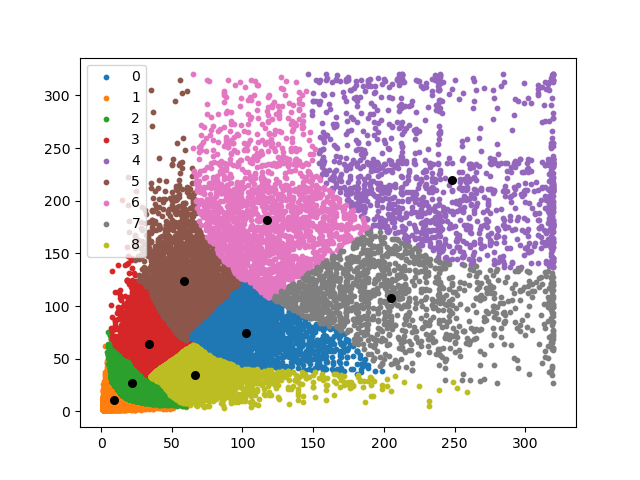
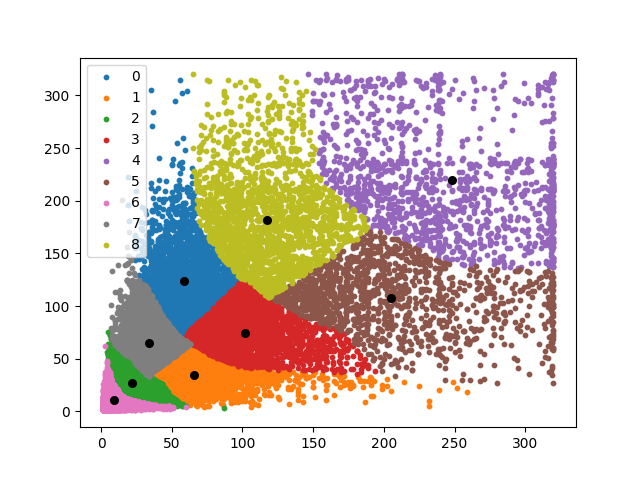
完成数据集加载以及anchors生成，具体的anchors已写入train.py

diff --git a/data/generate_anchors.py b/data/generate_anchors.py
@@ -1,17 +1,17 @@
 
 import numpy as np
 import matplotlib.pyplot as plt
-from data.generate_coco_data import CoCoDataGenrator
+from generate_coco_data import CoCoDataGenrator
 
 
-def save_coco_all_wh(anno_file, image_shape, output_anchor_file):
+def save_coco_all_wh(anno_file, coco_data_file, image_shape, output_anchor_file):
     """ 生成coco标注数据目标边框宽高
     :param anno_file:
     :param image_shape:
     :param output_anchor_file:
     :return:
     """
-    coco = CoCoDataGenrator(coco_annotation_file=anno_file, img_shape=image_shape, batch_size=1, train_img_nums=-1)
+    coco = CoCoDataGenrator(coco_annotation_file=anno_file, coco_data_file=coco_data_file ,img_shape=image_shape, batch_size=1, train_img_nums=-1, need_down_image=False)
     all_wh = []
     for batch in range(coco.total_batch_size):
         data = coco.next_batch()
@@ -105,10 +105,11 @@ def kmeans(x, K, save_cluster_fig=""):
 
 if __name__ == "__main__":
     # save_coco_all_wh(
-    #     anno_file="./data/instances_val2017.json",
+    #     anno_file="/content/coco2017/annotations/instances_val2017.json",
+    #     coco_data_file="/content/coco2017/val2017",
     #     image_shape=[320,320,3],
-    #     output_anchor_file='./data/coco2017_320x320_val_all_wh.txt'
+    #     output_anchor_file='coco2017_320x320_val_all_wh.txt'
     # )
 
-    data = get_wh('./coco2017_320x320_val_all_wh.txt')
+    data = get_wh('coco2017_320x320_val_all_wh.txt')
     kmeans(data, 9, save_cluster_fig="./anchors_320x320_test.png")

diff --git a/data/generate_coco_data.py b/data/generate_coco_data.py
@@ -441,12 +441,14 @@ class CoCoDataGenrator:
 
 if __name__ == "__main__":
     from data.visual_ops import draw_bounding_box, draw_instance
+    from PIL import Image
 
     # file = "./cat_dog_face_data/train_annotations.json"
     file = "/content/coco2017/annotations/instances_val2017.json"
     # file = "./yanhua/annotations.json"
     coco = CoCoDataGenrator(
         coco_annotation_file=file,
+        coco_data_file = '/content/coco2017/val2017',
         train_img_nums=30,
         include_mask=True,
         include_keypoint=False,
@@ -475,8 +477,8 @@ if __name__ == "__main__":
         mask = gt_masks[-1][:, :, i]
         # img = draw_instance(img, mask)
         img = draw_bounding_box(img, label_name, label, x1, y1, x2, y2)
-    cv2.imshow("", img)
-    cv2.waitKey(0)
+    #cv2.imshow("",img)
+    #cv2.waitKey(0)
 
     # data = coco.next_batch()
     # print(data)

diff --git a/train.py b/train.py
@@ -51,9 +51,9 @@ def main():
     # classes = ['cat', 'dog']
 
     # 这里anchor归一化到[0,1]区间
-    anchors = np.array([[10, 13], [16, 30], [33, 23],
-                        [30, 61], [62, 45], [59, 119],
-                        [116, 90], [156, 198], [373, 326]]) / 640.
+    anchors = np.array([[8, 10], [21, 26], [33, 64],
+                        [65, 34], [58, 123], [102, 74],
+                        [117, 182], [204, 107], [248, 220]]) / 640.
     anchors = np.array(anchors, dtype=np.float32)
     # 分别对应1/8, 1/16, 1/32预测输出层
     anchor_masks = np.array([[0, 1, 2], [3, 4, 5], [6, 7, 8]], dtype=np.int8)
